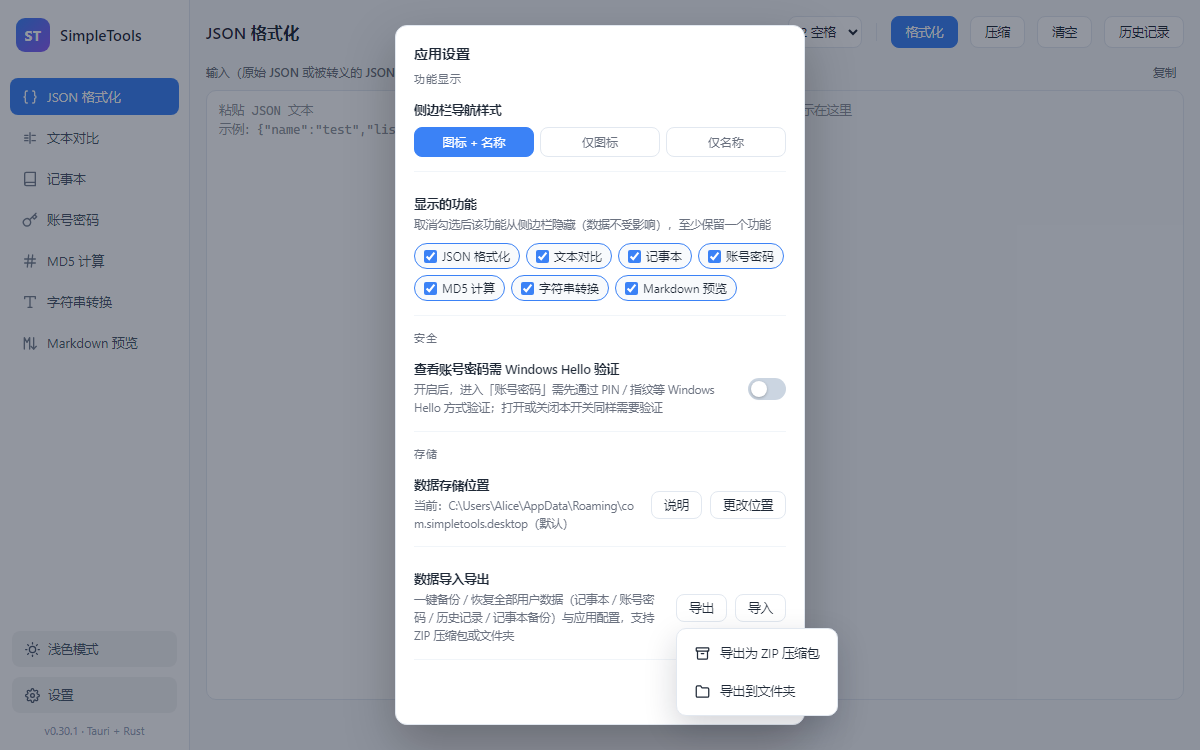
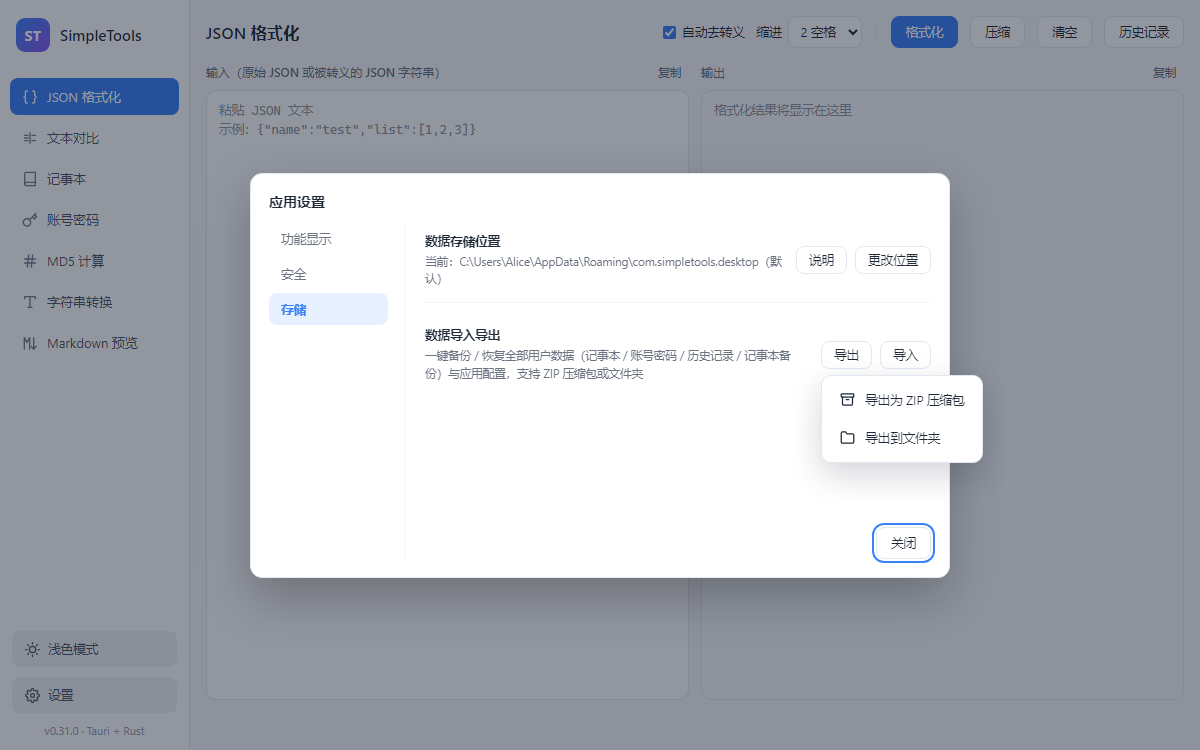
v0.31.0: redesign app-settings modal to horizontal two-column layout (700px wide: left category nav display/security/storage with tab switching, right content pane with equal-height panels and stable modal height, resets to first category on open); sync version 0.31.0 (package.json/tauri.conf.json/C

diff --git a/src/index.html b/src/index.html
@@ -134,7 +134,7 @@
         </svg>
         <span>设置</span>
       </button>
-      <div class="version">v0.30.1 <span class="version-stack">· Tauri + Rust</span></div>
+      <div class="version">v0.31.0 <span class="version-stack">· Tauri + Rust</span></div>
     </div>
   </aside>
 
@@ -521,67 +521,79 @@
 
   <div id="toast" class="toast"></div>
 
-  <!-- 应用设置弹窗 -->
+  <!-- 应用设置弹窗（v0.31.0：横版左右布局 — 左侧分类导航 + 右侧内容区） -->
   <div id="settings-modal" class="modal-mask hidden">
     <div class="modal-card" role="dialog" aria-modal="true" aria-labelledby="settings-title">
       <div class="modal-title" id="settings-title">应用设置</div>
-      <div class="settings-label">功能显示</div>
-      <div class="settings-row settings-row-col">
-        <div class="settings-row-title">侧边栏导航样式</div>
-        <div class="nav-style-group" id="nav-style-group" role="radiogroup" aria-label="侧边栏导航样式">
-          <button type="button" class="nav-style-item" data-nav-style="both">图标 + 名称</button>
-          <button type="button" class="nav-style-item" data-nav-style="icon">仅图标</button>
-          <button type="button" class="nav-style-item" data-nav-style="label">仅名称</button>
+      <div class="settings-layout">
+        <div class="settings-nav" id="settings-nav" role="tablist" aria-label="设置分类">
+          <button type="button" class="settings-nav-item" role="tab" data-settings-tab="display">功能显示</button>
+          <button type="button" class="settings-nav-item" role="tab" data-settings-tab="security">安全</button>
+          <button type="button" class="settings-nav-item" role="tab" data-settings-tab="storage">存储</button>
         </div>
-      </div>
-      <div class="settings-row settings-row-col">
-        <div class="settings-row-title">显示的功能</div>
-        <div class="settings-row-desc">取消勾选后该功能从侧边栏隐藏（数据不受影响），至少保留一个功能</div>
-        <div class="nav-feature-grid" id="nav-feature-grid">
-          <label class="nav-feature-item"><input type="checkbox" data-feature="json" /><span>JSON 格式化</span></label>
-          <label class="nav-feature-item"><input type="checkbox" data-feature="diff" /><span>文本对比</span></label>
-          <label class="nav-feature-item"><input type="checkbox" data-feature="notes" /><span>记事本</span></label>
-          <label class="nav-feature-item"><input type="checkbox" data-feature="accounts" /><span>账号密码</span></label>
-          <label class="nav-feature-item"><input type="checkbox" data-feature="md5" /><span>MD5 计算</span></label>
-          <label class="nav-feature-item"><input type="checkbox" data-feature="str" /><span>字符串转换</span></label>
-          <label class="nav-feature-item"><input type="checkbox" data-feature="md" /><span>Markdown 预览</span></label>
+        <div class="settings-main">
+          <div class="settings-pane" data-settings-pane="display" role="tabpanel">
+            <div class="settings-row settings-row-col">
+              <div class="settings-row-title">侧边栏导航样式</div>
+              <div class="nav-style-group" id="nav-style-group" role="radiogroup" aria-label="侧边栏导航样式">
+                <button type="button" class="nav-style-item" data-nav-style="both">图标 + 名称</button>
+                <button type="button" class="nav-style-item" data-nav-style="icon">仅图标</button>
+                <button type="button" class="nav-style-item" data-nav-style="label">仅名称</button>
+              </div>
+            </div>
+            <div class="settings-row settings-row-col">
+              <div class="settings-row-title">显示的功能</div>
+              <div class="settings-row-desc">取消勾选后该功能从侧边栏隐藏（数据不受影响），至少保留一个功能</div>
+              <div class="nav-feature-grid" id="nav-feature-grid">
+                <label class="nav-feature-item"><input type="checkbox" data-feature="json" /><span>JSON 格式化</span></label>
+                <label class="nav-feature-item"><input type="checkbox" data-feature="diff" /><span>文本对比</span></label>
+                <label class="nav-feature-item"><input type="checkbox" data-feature="notes" /><span>记事本</span></label>
+                <label class="nav-feature-item"><input type="checkbox" data-feature="accounts" /><span>账号密码</span></label>
+                <label class="nav-feature-item"><input type="checkbox" data-feature="md5" /><span>MD5 计算</span></label>
+                <label class="nav-feature-item"><input type="checkbox" data-feature="str" /><span>字符串转换</span></label>
+                <label class="nav-feature-item"><input type="checkbox" data-feature="md" /><span>Markdown 预览</span></label>
+              </div>
+            </div>
+          </div>
+          <div class="settings-pane" data-settings-pane="security" role="tabpanel">
+            <div class="settings-row">
+              <div class="settings-row-text">
+                <div class="settings-row-title">查看账号密码需 Windows Hello 验证</div>
+                <div class="settings-row-desc">开启后，进入「账号密码」需先通过 PIN / 指纹等 Windows Hello 方式验证；打开或关闭本开关同样需要验证</div>
+              </div>
+              <label class="switch">
+                <input type="checkbox" id="acc-lock-switch" />
+                <span class="switch-slider"></span>
+              </label>
+            </div>
+          </div>
+          <div class="settings-pane" data-settings-pane="storage" role="tabpanel">
+            <div class="settings-row">
+              <div class="settings-row-text">
+                <div class="settings-row-title">数据存储位置</div>
+                <div class="settings-row-desc" id="data-dir-path">读取中…</div>
+              </div>
+              <div class="settings-actions">
+                <button class="btn" id="data-dir-help" title="查看各数据文件的位置与用途">说明</button>
+                <button class="btn" id="data-dir-change">更改位置</button>
+                <button class="btn hidden" id="data-dir-reset">恢复默认</button>
+              </div>
+            </div>
+            <div class="settings-row">
+              <div class="settings-row-text">
+                <div class="settings-row-title">数据导入导出</div>
+                <div class="settings-row-desc">一键备份 / 恢复全部用户数据（记事本 / 账号密码 / 历史记录 / 记事本备份）与应用配置，支持 ZIP 压缩包或文件夹</div>
+              </div>
+              <div class="settings-actions">
+                <button class="btn" id="data-export-btn">导出</button>
+                <button class="btn" id="data-import-btn">导入</button>
+              </div>
+            </div>
+          </div>
+          <div class="modal-actions">
+            <button class="btn" id="settings-close">关闭</button>
+          </div>
         </div>
-      </div>
-      <div class="settings-label">安全</div>
-      <div class="settings-row">
-        <div class="settings-row-text">
-          <div class="settings-row-title">查看账号密码需 Windows Hello 验证</div>
-          <div class="settings-row-desc">开启后，进入「账号密码」需先通过 PIN / 指纹等 Windows Hello 方式验证；打开或关闭本开关同样需要验证</div>
-        </div>
-        <label class="switch">
-          <input type="checkbox" id="acc-lock-switch" />
-          <span class="switch-slider"></span>
-        </label>
-      </div>
-      <div class="settings-label">存储</div>
-      <div class="settings-row">
-        <div class="settings-row-text">
-          <div class="settings-row-title">数据存储位置</div>
-          <div class="settings-row-desc" id="data-dir-path">读取中…</div>
-        </div>
-        <div class="settings-actions">
-          <button class="btn" id="data-dir-help" title="查看各数据文件的位置与用途">说明</button>
-          <button class="btn" id="data-dir-change">更改位置</button>
-          <button class="btn hidden" id="data-dir-reset">恢复默认</button>
-        </div>
-      </div>
-      <div class="settings-row">
-        <div class="settings-row-text">
-          <div class="settings-row-title">数据导入导出</div>
-          <div class="settings-row-desc">一键备份 / 恢复全部用户数据（记事本 / 账号密码 / 历史记录 / 记事本备份）与应用配置，支持 ZIP 压缩包或文件夹</div>
-        </div>
-        <div class="settings-actions">
-          <button class="btn" id="data-export-btn">导出</button>
-          <button class="btn" id="data-import-btn">导入</button>
-        </div>
-      </div>
-      <div class="modal-actions">
-        <button class="btn" id="settings-close">关闭</button>
       </div>
     </div>
   </div>

diff --git a/src/styles.css b/src/styles.css
@@ -2557,13 +2557,6 @@ textarea[readonly] {
 }
 
 /* ===== 应用设置弹窗：安全开关（v0.15.0） ===== */
-.settings-label {
-  font-size: 11px;
-  color: var(--text-dim);
-  letter-spacing: 0.08em;
-  margin-bottom: 6px;
-}
-
 .settings-row {
   display: flex;
   align-items: center;
@@ -2602,9 +2595,73 @@ textarea[readonly] {
   padding: 5px 12px;
 }
 
-/* 设置弹窗内容较多，适当加宽 */
+/* ===== 应用设置弹窗：横版左右布局（v0.31.0） ===== */
+/* 左侧分类导航（功能显示 / 安全 / 存储）+ 右侧内容区，弹窗整体加宽为横版 */
 #settings-modal .modal-card {
-  width: 410px;
+  width: 700px;
+  max-width: 92vw;
+}
+
+.settings-layout {
+  display: flex;
+  gap: 20px;
+  margin-top: 12px;
+}
+
+.settings-nav {
+  width: 136px;
+  flex-shrink: 0;
+  display: flex;
+  flex-direction: column;
+  gap: 3px;
+  padding-right: 16px;
+  border-right: 1px solid var(--border-light);
+}
+
+.settings-nav-item {
+  text-align: left;
+  padding: 8px 12px;
+  border: none;
+  border-radius: 8px;
+  background: transparent;
+  color: var(--text-dim);
+  font-size: 12.5px;
+  font-family: var(--sans);
+  cursor: pointer;
+}
+
+.settings-nav-item:hover {
+  background: var(--hover-bg);
+  color: var(--text);
+}
+
+.settings-nav-item.is-active {
+  background: var(--primary-soft);
+  color: var(--primary);
+  font-weight: 600;
+}
+
+.settings-main {
+  flex: 1;
+  min-width: 0;
+  min-height: 336px;
+  display: flex;
+  flex-direction: column;
+}
+
+.settings-pane {
+  display: none;
+}
+
+.settings-pane.is-active {
+  display: block;
+  flex: 1;
+}
+
+/* 分类面板内最后一行不再需要分隔线与其下边距 */
+.settings-pane .settings-row:last-child {
+  border-bottom: none;
+  margin-bottom: 0;
 }
 
 #data-dir-path {

diff --git a/src/main.js b/src/main.js
@@ -450,10 +450,30 @@
     return false;
   }
 
-  // 设置弹窗
+  // 设置弹窗（v0.31.0：横版左右布局 — 左侧分类导航切换右侧内容）
+  const settingsNav = document.getElementById('settings-nav');
+  const settingsPanes = document.querySelectorAll('#settings-modal .settings-pane');
+
+  function setSettingsTab(tab) {
+    settingsNav.querySelectorAll('.settings-nav-item').forEach((b) => {
+      const on = b.dataset.settingsTab === tab;
+      b.classList.toggle('is-active', on);
+      b.setAttribute('aria-selected', on ? 'true' : 'false');
+    });
+    settingsPanes.forEach((p) => {
+      p.classList.toggle('is-active', p.dataset.settingsPane === tab);
+    });
+  }
+
+  settingsNav.addEventListener('click', (e) => {
+    const btn = e.target.closest('.settings-nav-item');
+    if (btn) setSettingsTab(btn.dataset.settingsTab);
+  });
+
   function openSettings() {
     accLockSwitch.checked = accLockEnabled();
     refreshDataDirInfo();
+    setSettingsTab('display'); // 每次打开回到首个分类（不记忆上次停留位置）
     settingsMask.classList.remove('hidden');
     settingsCloseBtn.focus();
   }

diff --git a/README.md b/README.md
@@ -41,7 +41,9 @@
 
 ### 应用设置（功能显示 + 账号密码安全锁 + 数据存储位置 + 存储说明 + 数据导入导出）
 
-「功能显示」区块可自定义侧边栏：「侧边栏导航样式」支持「图标 + 名称」（默认）/「仅图标」（侧边栏缩窄为 64px，按钮悬停显示功能名）/「仅名称」三种模式；「显示的功能」列出全部功能，取消勾选暂时用不到的功能后立即从侧边栏隐藏（数据与配置保留，重新勾选即恢复）—— 至少保留一个功能，正在使用的功能被隐藏时自动切换到第一个可见功能；所有选择即时生效并自动记忆。
+弹窗为横版左右布局：左侧为分类导航（功能显示 / 安全 / 存储），点击切换右侧内容区，每次打开默认回到「功能显示」。
+
+「功能显示」分类可自定义侧边栏：「侧边栏导航样式」支持「图标 + 名称」（默认）/「仅图标」（侧边栏缩窄为 64px，按钮悬停显示功能名）/「仅名称」三种模式；「显示的功能」列出全部功能，取消勾选暂时用不到的功能后立即从侧边栏隐藏（数据与配置保留，重新勾选即恢复）—— 至少保留一个功能，正在使用的功能被隐藏时自动切换到第一个可见功能；所有选择即时生效并自动记忆。
 
 侧边栏底部「设置」进入应用设置；可开启「查看账号密码需 Windows Hello 验证」—— 开启后进入「账号密码」需先通过 PIN / 指纹 / 面容等 Windows Hello 方式验证（系统弹窗接管），开关的开启 / 关闭同样需要验证（取消或验证失败自动回滚）；电脑未配置 Windows Hello 时给出提示，引导前往 Windows 设置创建 PIN 或录入指纹。
 
@@ -113,7 +115,7 @@ npm run build
 
 构建产物：
 
-- 安装包：`src-tauri/target/release/bundle/nsis/SimpleTools_0.30.1_x64-setup.exe`
+- 安装包：`src-tauri/target/release/bundle/nsis/SimpleTools_0.31.0_x64-setup.exe`
 - 免安装单文件：`src-tauri/target/release/SimpleTools.exe`
 
 > 首次构建约需几分钟（Rust 编译）；前端为静态资源，修改 `src/` 后需重新执行 `npm run build` 才生效。
@@ -184,6 +186,11 @@ SimpleTools/
 ```
 
 ## 更新日志
+
+### v0.31.0（2026-10-11）
+
+- 「应用设置」弹窗全新横版左右布局：弹窗宽度由 410px 加宽至 700px，左侧新增分类导航（功能显示 / 安全 / 存储），右侧内容区按所选分类切换显示，浏览更清晰
+- 三个分类面板等高布局，切换分类时弹窗高度保持一致不跳动；每次打开弹窗默认回到「功能显示」分类
 
 ### v0.30.1（2026-10-11）
 
